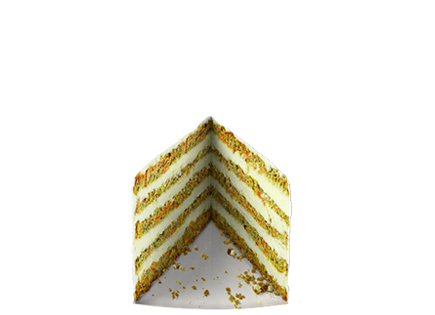
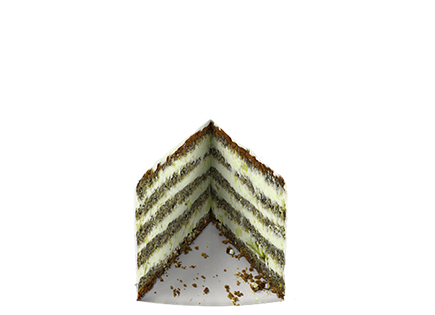
changes

Changed region(s): [[0.2989, 0.3714, 0.6874, 1.0]]

diff --git a/constructor.html b/constructor.html
@@ -5435,35 +5435,35 @@
                                     <div class="const-filter-card__body">
                                         <ul class="const-filter-card__list">
                                             <li class="const-filter-card__item">
-                                                <input type="radio" name="filling" id="cake-1" class="const-radio">
+                                                <input type="radio" name="filling" id="cake-1" class="const-radio" data-filling="1">
                                                 <label class="const-label" for="cake-1">Черничный крем с шоколадным бисквитом</label>
                                             </li>
                                             <li class="const-filter-card__item">
-                                                <input type="radio" name="filling" id="cake-2" class="const-radio">
+                                                <input type="radio" name="filling" id="cake-2" class="const-radio" data-filling="2">
                                                 <label class="const-label" for="cake-2">Медовик</label>
                                             </li>
                                             <li class="const-filter-card__item">
-                                                <input type="radio" name="filling" id="cake-3" class="const-radio">
+                                                <input type="radio" name="filling" id="cake-3" class="const-radio" data-filling="3">
                                                 <label class="const-label" for="cake-3">Фисташковая</label>
                                             </li>
                                             <li class="const-filter-card__item">
-                                                <input type="radio" name="filling" id="cake-4" class="const-radio">
+                                                <input type="radio" name="filling" id="cake-4" class="const-radio" data-filling="4">
                                                 <label class="const-label" for="cake-4">Бисквитно-ягодная</label>
                                             </li>
                                             <li class="const-filter-card__item">
-                                                <input type="radio" name="filling" id="cake-5" class="const-radio">
+                                                <input type="radio" name="filling" id="cake-5" class="const-radio" data-filling="5">
                                                 <label class="const-label" for="cake-5">Ореховая</label>
                                             </li>
                                             <li class="const-filter-card__item">
-                                                <input type="radio" name="filling" id="cake-6" class="const-radio">
+                                                <input type="radio" name="filling" id="cake-6" class="const-radio" data-filling="6">
                                                 <label class="const-label" for="cake-6">Манго-маракуйя</label>
                                             </li>
                                             <li class="const-filter-card__item">
-                                                <input type="radio" name="filling" id="cake-7" class="const-radio">
+                                                <input type="radio" name="filling" id="cake-7" class="const-radio" data-filling="7">
                                                 <label class="const-label" for="cake-7">Фисташковая</label>
                                             </li>
                                             <li class="const-filter-card__item">
-                                                <input type="radio" name="filling" id="cake-8" class="const-radio">
+                                                <input type="radio" name="filling" id="cake-8" class="const-radio" data-filling="8">
                                                 <label class="const-label" for="cake-8">Бисквитно-ягодная</label>
                                             </li>
                                         </ul>

diff --git a/constructor/constructor.js b/constructor/constructor.js
@@ -22,6 +22,10 @@ $(function(){
 
         this.tier = ['one', 'two'];
 
+        /*параметры*/
+        this.typeFilling = '1'; //начинка торта
+        this.typeShape = 'round'; //форма торта
+
         // if (this.itemsShape.length !== 2) {
         //     alert('В списке больше 2-х ярусов!');
         //     return false;
@@ -87,23 +91,26 @@ $(function(){
                 self.elementShape.addClass('active');
             });
 
-            $('#filter_shape input[type="radio"]').on('change', function(){
-                var typeShape = $(this).data('filterShape');
-                self.changeShape(typeShape);
-            });
-
             $('#filter_filling input[type="radio"]').on('change', function(){
-                self.changeFilling();
+                self.typeFilling = $(this).data('filling');
+                self.changeFilling(self.typeFilling, self.typeShape);
             });
 
 
+            $('#filter_shape input[type="radio"]').on('change', function(){
+                self.typeShape = $(this).data('filterShape');
+                self.changeShape(self.typeShape);
+                self.changeFilling(self.typeFilling, self.typeShape );
 
+            });
         },
+
+
+
 
         showCake: function(nextStep){
             $(nextStep).parents('.constructor-product-shape').addClass('visited');
             this.selectedShape = $(nextStep).parents('.constructor-product-shape__item').data('shape');
-            this.selectedTier = $(nextStep).parents('.constructor-product-shape__item').data('tier');
             this.elementShape.removeClass('active');
             this.cake.addClass('active').find('.cake-basis').attr('src', this.pathImg + 'cake-' + this.selectedShape + '-' + this.selectedTier + '.png');
             this.filterFilling.siblings().removeClass('active');;
@@ -120,24 +127,34 @@ $(function(){
             $(elemActive).addClass(nameClass);
         },
 
+        changeTier: function(nextStep){
+            this.selectedTier = $(nextStep).parents('.constructor-product-shape__item').data('tier');
+
+        },
+
         changeShape: function(typeShape){
 
             var self = this;
             this.elementShape.find('.constructor-product-shape__item').each(function(i, elem){
                $(elem).data('shape', typeShape).attr('data-shape', typeShape);
-                $(elem).find('img').attr('src', self.pathImg + 'cake-'+ typeShape + '-' + self.tier[i] + '.png');
+                $(elem).find('img').attr('src', self.pathImg + 'cake-'+ self.typeShape + '-' + self.tier[i] + '.png');
                 // console.log('пусть картинки N' + i + ' ' + $(elem).find('img').attr('src'));
             });
         },
 
-        changeFilling: function(){
-            var text = this.pathImg + 'filling-1-round-one.png';
-            var filling = $('<img class="cake-filling" src="' + text + '" alt="">');
-            if($('img').hasClass('.cake-filling')){
-                $(this).remove();
+        changeFilling: function(filling, shape){
+            // var text = this.pathImg + 'filling-1-round-one.png';
+            var filling = $('<img class="cake-filling" src="' + this.pathImg + 'filling-' + filling + '-'+ shape + '-' + this.selectedTier + '.png' + '" alt="">');
+            if($(this.cake.find('img')).hasClass('.cake-filling')){
+
+            }else{
+
             }
 
+            $(this.cake.find('.cake-filling')).remove();
             this.cake.append(filling);
+
+
         }
 
     };

diff --git a/constructor/constructor.css b/constructor/constructor.css
@@ -410,6 +410,6 @@
 
 .cake-filling {
     position: absolute;
-    top: 0;
+    top: 3px;
     z-index: 2;
 }
